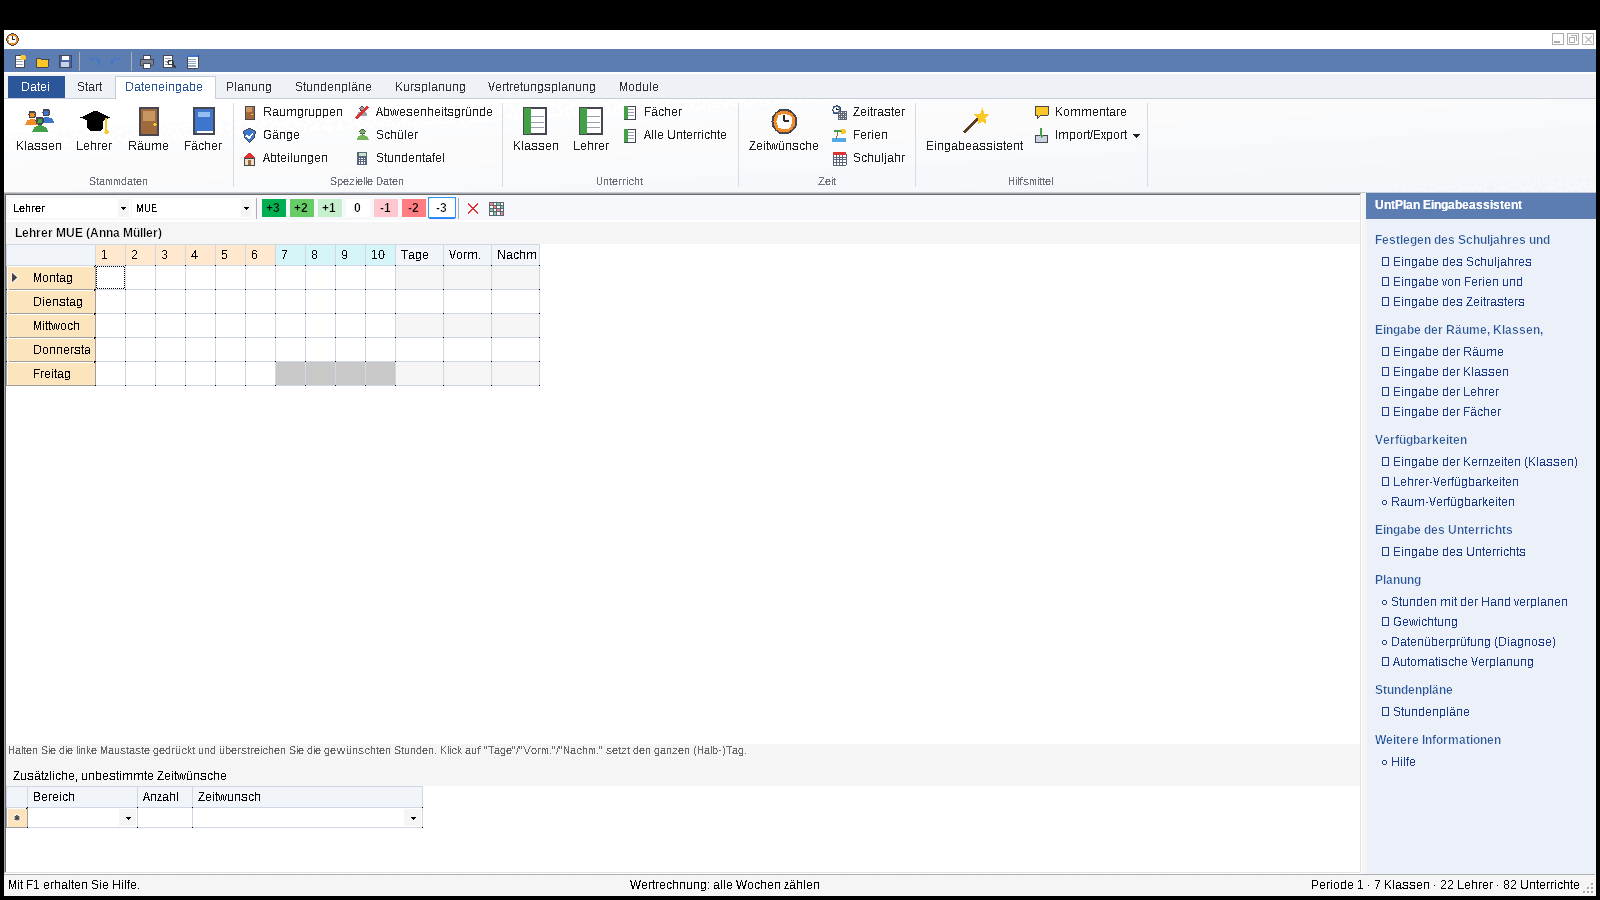
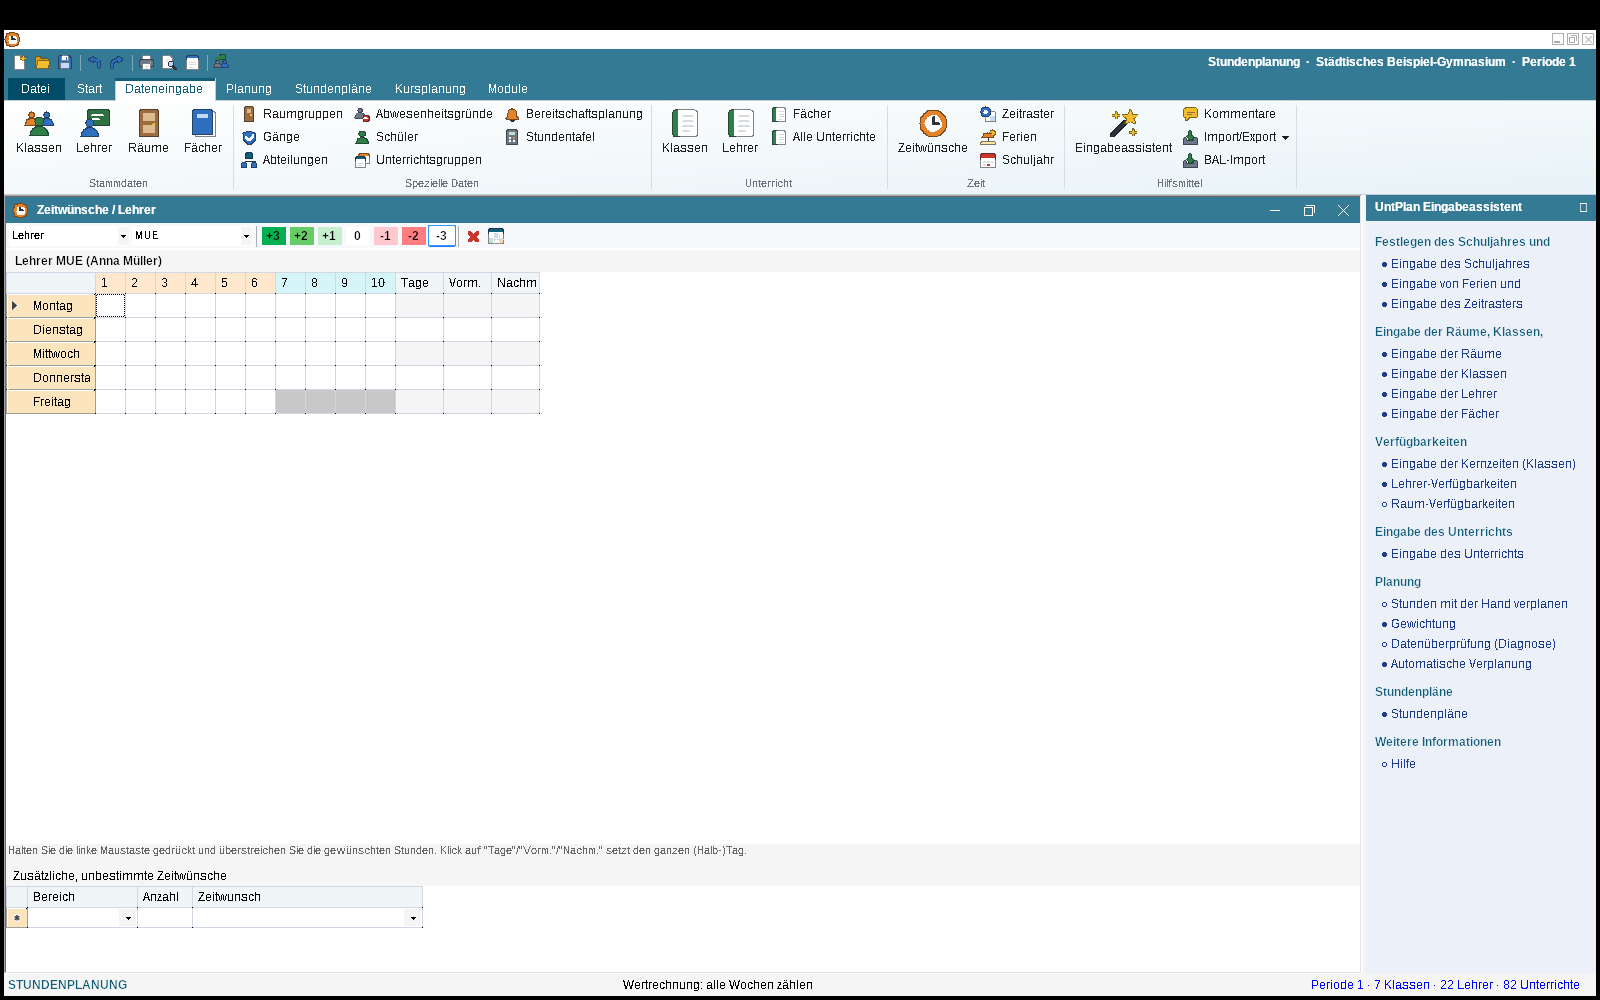
Handbuch aktualisiert, Selbsttest erweitert, Pausenaufsichten-Startansicht korrigiert
- Handbuch: Modi und Auswahl-Synchronisation, Direkteingabe, Pausenaufsichten,
  Perioden, Bereitschaftsplanung, Unterrichtsgruppen, BAL, UntPlanWeb,
  Tabellenformate und Druckformular
- Periodendialog: Option Unterrichtsänderungen in Folgeperioden übernehmen
- Pausenaufsichten zeigen beim Öffnen die Gänge (nicht die Lehrer)
- Selbsttest öffnet auch Veranstaltungen, Klausuren, Optimierung,
  Bereitschaftsplanung und Unterrichtsgruppen
- Neue Bildschirmfotos

Claude-Session: https://claude.ai/code/session_012HgAxausSt2NjCdAsUfGL8

diff --git a/src/UntPlan.App/HauptFenster.SelbstTest.cs b/src/UntPlan.App/HauptFenster.SelbstTest.cs
@@ -89,6 +89,8 @@ public sealed partial class HauptFenster
         Schritt("19b_Pausenaufsichten", () => Max(FensterOeffnen("pause")!), -1);
         Schritt("19c_Statistik", () => Max(FensterOeffnen("stat")!), -1);
         Schritt("19d_Kalender_Bereitschaften", () => { FensterOeffnen("kal"); FensterOeffnen("bereit"); FensterOeffnen("vorm"); LayoutMdi(MdiLayout.TileVertical); }, -1);
+        Schritt("19d1_Veranstaltungen", () => Max(FensterOeffnen("veranst")!), -1);
+        Schritt("19d2_Klausuren", () => Max(FensterOeffnen("klaus")!), -1);
         Schritt("19e_Standardanordnung", VertretungsStandardFenster, -1);
         Schritt("19f_Stundenplanmodus", VertretungsmodusUmschalten, -1, false);
         Schritt("20_Wertrechnung", () => Max(Oeffnen<WertrechnungFenster>("wert", () => new WertrechnungFenster(0))), 6);
@@ -97,6 +99,9 @@ public sealed partial class HauptFenster
         Schritt("23_Kursplanung", () => Max(Oeffnen<KursplanungFenster>("kurs", () => new KursplanungFenster())), 4);
         Schritt("24_Hilfe", () => HilfeFenster.Zeigen("Vertretungsplanung"), 0);
         Schritt("25_Perioden", () => new PeriodenDialog().Show(this), 2);
+        Schritt("25a_Optimierung", () => new OptimierungDialog().Show(this), 2);
+        Schritt("25b_Bereitschaftsplanung", () => Max(FensterOeffnen("bereitplan")!), 2);
+        Schritt("25c_Unterrichtsgruppen", () => Max(FensterOeffnen("ugruppen")!), 2);
         Schritt("26_Kommentare", () => Max(new KommentarUebersicht()).Show(), 1);
         Schritt("27_Monitor", () =>
         {

diff --git a/src/UntPlan.App/Fenster/VertretungsAusgabeFenster.cs b/src/UntPlan.App/Fenster/VertretungsAusgabeFenster.cs
@@ -21,6 +21,8 @@ public sealed class PausenaufsichtFenster : MdiFenster, IDruckbar
     private readonly DataGridView _g = new() { Dock = DockStyle.Fill };
     private readonly DataGridView _lehrer = new() { Dock = DockStyle.Fill };
     private bool _laedt;
+    // eigene Merkvariable: TabControl.SelectedIndex liefert vor dem Erzeugen des Handles -1
+    private bool _gangSicht = true;
 
     public PausenaufsichtFenster()
     {
@@ -31,7 +33,13 @@ public sealed class PausenaufsichtFenster : MdiFenster, IDruckbar
         Positionieren();
         _tabs.TabPages.Add("Gang");
         _tabs.TabPages.Add("Lehrer");
-        _tabs.SelectedIndexChanged += (_, _) => { ElementeFuellen(); Neuaufbau(); };
+        _tabs.SelectedIndexChanged += (_, _) =>
+        {
+            if (_tabs.SelectedIndex < 0 || (_tabs.SelectedIndex == 0) == _gangSicht) return;
+            _gangSicht = _tabs.SelectedIndex == 0;
+            ElementeFuellen();
+            Neuaufbau();
+        };
         var ts = Werkzeugleiste();
         ts.Items.Add(_element);
         _element.SelectedIndexChanged += (_, _) => { if (!_laedt) Neuaufbau(); };
@@ -84,7 +92,7 @@ public sealed class PausenaufsichtFenster : MdiFenster, IDruckbar
         public override string ToString() => Text;
     }
 
-    private bool GangSicht => _tabs.SelectedIndex == 0;
+    private bool GangSicht => _gangSicht;
     private int? ElementId => (_element.SelectedItem as Eintrag)?.Id;
     private List<Pause> Pausen => Pausenaufsichten.AufsichtsPausen(D).ToList();
 

diff --git a/src/UntPlan.App/Dialoge/SchuldatenDialoge.cs b/src/UntPlan.App/Dialoge/SchuldatenDialoge.cs
@@ -311,6 +311,9 @@ public sealed class PeriodenDialog : Dialog
         var druck = new Button { Text = "Druck", Left = 230, Top = 18, Width = 82, Height = 25 };
         var aktiv = new Button { Text = "Als aktive Periode", Left = 320, Top = 18, Width = 130, Height = 25 };
         Controls.AddRange(new Control[] { druck, aktiv, _fixiert });
+        var folge = new CheckBox { Text = "Unterrichtsänderungen in Folgeperioden übernehmen", Left = 320, Top = 60, AutoSize = true, Checked = D.Einstellungen.UnterrichtInFolgeperioden };
+        folge.CheckedChanged += (_, _) => AppZustand.Doc.Aendern("Unterricht in Folgeperioden", AenderungsArt.Alles, d => d.Einstellungen.UnterrichtInFolgeperioden = folge.Checked);
+        Controls.Add(folge);
         Controls.Add(new Label { Text = "Langname", Left = 214, Top = 99, AutoSize = true });
         _lang.SetBounds(12, 96, 196, 23);
         Controls.Add(_lang);

diff --git a/src/UntPlan.App/HauptFenster.Modus.cs b/src/UntPlan.App/HauptFenster.Modus.cs
@@ -69,7 +69,7 @@ public sealed partial class HauptFenster
 
         g = Gruppe(vp, "Planung");
         g.Eintraege.Add(E("Planungs-dialog", "stundenplan", PlanungsdialogOeffnen, true, hinweis: "Klassen- und Lehrerplan tagesaktuell nebeneinander (Drag & Drop: Verlegen, Tauschen)"));
-        g.Eintraege.Add(E("Vormer-kungen", "vormerkung", () => VertretungsFensterOeffnen("vorm"), true));
+        g.Eintraege.Add(E("Vormerkungen", "vormerkung", () => VertretungsFensterOeffnen("vorm"), true));
         g.Eintraege.Add(E("Pausen-aufsichten", "pausenaufsicht", () => VertretungsFensterOeffnen("pause"), true));
 
         g = Gruppe(vp, "Stundenpläne");

diff --git a/docs/HANDBUCH.md b/docs/HANDBUCH.md
@@ -19,6 +19,7 @@ In der Anwendung erreichen Sie die passende Hilfeseite jederzeit mit **F1**.
 10. [Import, Export und WebPortal](#10-import-export-und-webportal)
 11. [Tastenkürzel](#11-tastenkürzel)
 12. [MultiUser](#12-multiuser)
+13. [Bedienung: Tabellen, Suche, Formate](#13-bedienung-tabellen-suche-formate)
 
 ---
 
@@ -43,6 +44,21 @@ In der Anwendung erreichen Sie die passende Hilfeseite jederzeit mit **F1**.
 
 Eine Schuldatei (`*.up`) enthält alle Daten eines Schuljahres. Beim Speichern legt UntPlan automatisch eine Sicherung `*.bak` an.
 Jede Änderung lässt sich mit **Strg+Z** rückgängig machen (50 Schritte).
+
+### Stundenplanung und Vertretungsplanung
+
+UntPlan arbeitet in zwei Modi, die Sie unten im Menüband (*Modus*) oder mit **Strg+M** umschalten:
+
+| Modus | Farbe | Inhalt |
+|---|---|---|
+| Stundenplanung | blau | Stammdaten, Unterricht, Planung, Optimierung, Module |
+| Vertretungsplanung | grün | Kalender, Absenzen, Vertretungen, Vorschlag, Veranstaltungen, Klausuren, Pausenaufsichten, Statistik |
+
+Jeder Modus merkt sich seine eigene Fensteranordnung. Titelleisten, Menüband und Fenster nehmen die Farbe des Modus an.
+Unter Windows 11 gilt das auch für die Titelleiste des Hauptfensters.
+
+**Auswahl wirkt auf alle Fenster:** Wählen Sie eine Vertretung, eine Stunde im Unterrichtsfenster oder eine Abwesenheit, zeigen alle geöffneten Stundenpläne mit eingeschalteter Synchronisation den zugehörigen Lehrer-, Klassen- bzw. Raumplan.
+Die betroffene Stunde ist gestrichelt markiert.
 
 ---
 
@@ -276,7 +292,10 @@ In der **Übersicht** (Raumplan quer) verlegen Sie Räume per Drag & Drop.
 *Vertretungsplanung → Abwesenheiten*: Geben Sie Lehrer-, Klassen- und Raumabwesenheiten mit Datum, Stunde von/bis, Grund und Text ein.
 
 - **Klassenabwesenheit:** Begleitlehrer gelten ebenfalls als abwesend. Der Unterricht der Klasse wird zur **Freisetzung**; die freigesetzten Lehrer stehen für Vertretungen zur Verfügung (Minusstunden).
-- Mit dem Speichern erzeugt UntPlan sofort die **offenen Vertretungen** (rot `???`).
+- Mit dem Speichern erzeugt UntPlan sofort die **offenen Vertretungen** (rot `???`, nicht fett).
+- **Direkteingabe:** Am Ende der Liste steht immer eine leere Zeile *neu*. Tippen Sie dort Lehrer, Datum und Stunden ein, ohne einen Dialog zu öffnen. Das gilt ebenso für **Veranstaltungen**, **Klausuren** und **Tagestexte**.
+- **Hinweis bei geplanten Vertretern:** Wird ein Lehrer abwesend, der bereits als Vertreter eingeteilt ist, meldet UntPlan die betroffenen Vertretungen. Diese werden wieder offen.
+- Mit **Teilen**, **Kopieren** und **Zusammenfassen** bearbeiten Sie mehrere Abwesenheiten auf einmal.
 
 ### Vertretungsfenster
 
@@ -296,6 +315,13 @@ Arbeitsablauf:
 4. **Automatische Vertretung des Tages** plant alle offenen Vertretungen nach dem Vorschlag.
 
 Die Spalten **Vertreter**, **Fach**, **Raum** und **Text** können Sie direkt überschreiben.
+In der Auswahlliste *Vertreter* sind belegte Lehrer rot und Lehrer mit Bereitschaft grün; Sie können in der Liste suchen, indem Sie tippen.
+
+- **Zusammenhängende Stunden** (Doppel- und Blockstunden) erscheinen im Tagesplan als ein Block.
+- **Drag & Drop im Tagesplan:** Beim Ziehen fragt UntPlan, ob nur die Stunde oder der ganze Block verlegt werden soll und wie mit Kollisionen umzugehen ist (Tauschen, Verdrängen, Kollision zulassen).
+- **Ansichten:** Klasse, Lehrer, Druck und Pausenaufsichten.
+- **Filter:** *Offene Vertretungen*, *Kollisionen*.
+- **Tasten:** `+` setzt *Vertretung ohne Lehrkraft*, `-` setzt *Entfall*.
 
 - **Bereitschaft:** Lehrer mit Bereitschaftsstunde stehen grün ganz oben; ihre Vertretung ist keine Mehrarbeit.
 - **statt-Vertretung:** Ein freigesetzter Lehrer vertritt.
@@ -307,13 +333,39 @@ Die Spalten **Vertreter**, **Fach**, **Raum** und **Text** können Sie direkt ü
 
 ![Pausenaufsichten](bilder/18_Pausenaufsichten.png)
 
-Zeilen = Aufsichtsbereich (Gang) × Aufsichtspause, Spalten = Tage. Geben Sie Lehrer-Kürzel ein oder lassen Sie **Pausenaufsichten optimieren** die Einteilung vornehmen. Berücksichtigt werden:
+Das Fenster hat die Karteikarten **Gang** und **Lehrer**:
 
-- Anwesenheit des Lehrers vor oder nach der Pause.
-- Zeitwünsche.
-- Minimal- und Maximalwerte der Lehrer.
+- **Gang:** Wählen Sie oben den Aufsichtsbereich. Die Matrix zeigt Tage × Aufsichtspausen. Der Spaltenkopf nennt die Pause mit Ende und Beginn der angrenzenden Stunden.
+- **Lehrer:** zeigt die Aufsichten des gewählten Lehrers; grün = anwesend, rot = eigentlich nicht verfügbar.
+- Neben der Auswahl stehen die Minuten des Elements und wie viele davon noch offen sind.
 
-Farben: rot = Bedarf nicht gedeckt, violett = Lehrer eigentlich nicht verfügbar.
+**Zellen der Matrix:**
+
+| Anzeige | Bedeutung |
+|---|---|
+| Kürzel | eingeteilter Lehrer |
+| `???` | Aufsicht nötig, noch niemand eingeteilt |
+| grau | keine Aufsicht |
+| rot | Einteilung verletzt eine Vorgabe |
+
+Sie können ein Lehrer-Kürzel direkt in die Zelle tippen.
+
+**Werkzeugleiste:**
+
+- **Lehrervorschlag:** listet alle Lehrer mit Bewertung (Anwesenheit vor bzw. nach der Pause, Zeitwünsche, Minimal- und Maximalwerte). Ein Doppelklick trägt den Lehrer ein.
+- **Aufsicht löschen** und **Aufsicht (???) / Keine Aufsicht** bearbeiten die markierte Zelle.
+- **Aufsicht teilen** bzw. **Teilung entfernen:** teilt eine Pause auf bis zu neun Lehrer auf, z. B. für die erste und zweite Hälfte.
+- **Optimierung** verteilt die offenen Aufsichten automatisch. Die **Gewichtung** legt fest, wie stark jedes Kriterium zählt und wie viele Aufsichten ein Lehrer höchstens pro Tag hat.
+
+Rechts steht die Übersicht aller Lehrer mit Soll, Ist, Anzahl und Pausenaufsicht-Vertretungen. Ein Doppelklick öffnet die Lehreransicht.
+
+### Kalender, Veranstaltungen, Klausuren, Bereitschaften
+
+- **Kalender:** Wochenübersicht mit der Anzahl der Abwesenheiten und Vertretungen je Tag. Auf der zweiten Karteikarte bearbeiten Sie die Tagestexte direkt.
+- **Veranstaltungen** (Exkursionen, Konferenzen, Projekttage) und **Klausuren** werden in der Liste direkt eingetragen. Beteiligte Klassen, Lehrer und Räume gelten in diesem Zeitraum als abwesend bzw. belegt.
+- **Sondereinsätze:** Raster mit Klassen und Lehrern, dazu eine Schaltfläche für eine Klassenkonferenz.
+- **Bereitschaften:** zeigt, wer am gewählten Tag in welcher Stunde Bereitschaft hat und ob diese schon für eine Vertretung verbraucht ist.
+- **Vormerkungen:** Ziehen Sie eine Vormerkung in den Tagesplan, um sie zu verplanen.
 
 ### Statistik und NRW-Mehrarbeit
 
@@ -322,6 +374,13 @@ Farben: rot = Bedarf nicht gedeckt, violett = Lehrer eigentlich nicht verfügbar
 Je Lehrer zeigt die Statistik Vertretungen, Betreuungen, Sondereinsätze, Pausenaufsichten, Mehrarbeit, Entfälle, Freisetzungen, Saldo und **vergütungsfähige Mehrarbeit nach NRW-Regel**:
 Werden in einem Kalendermonat mehr als 3 Stunden Mehrarbeit geleistet (Grenze einstellbar, Minderstunden werden verrechnet), sind alle Stunden vergütungsfähig.
 Die Liste lässt sich drucken oder als CSV exportieren.
+
+Weitere Berichte:
+
+- Abrechnung und Einzelnachweis je Lehrer.
+- Mehrarbeit NRW und Monatsabrechnung, mit Unterschriftszeile.
+- Entfalltage.
+- Übersicht und Wochenwerte.
 
 ### Vertretungsplan ausgeben
 
@@ -356,7 +415,33 @@ Die Liste lässt sich drucken oder als CSV exportieren.
 
 ### Perioden
 
-Verschiedene Stundenpläne für Abschnitte des Schuljahres, z. B. ab dem 2. Halbjahr. Neue Perioden kopieren den Plan der aktuellen Periode.
+![Perioden](bilder/25_Perioden.png)
+
+Perioden sind verschiedene Stundenpläne für Abschnitte des Schuljahres, z. B. ab dem 2. Halbjahr oder für eine Projektwoche. Sie verwalten sie unter *Planung → Perioden*.
+
+- **Neue Periode:** wird als Tochter der markierten (Mutter-)Periode angelegt. Sie übernimmt deren Unterricht, Stundenplan und Pausenaufsichten.
+  - Beginn und Ende müssen im Schuljahr und innerhalb der Mutterperiode liegen.
+  - Ohne Endedatum gilt die Periode bis zum Beginn der nächsten Periode derselben Ebene.
+- **Gültigkeit:** An jedem Tag gilt die innerste Periode. Die Spalte *Schultage* zeigt, an wie vielen Unterrichtstagen sie tatsächlich gilt.
+- **Fixieren:** Eine fixierte Periode lässt sich nicht ändern oder löschen. Weitergegebene Änderungen erreichen sie ebenfalls nicht.
+- **Änderungen weitergeben** (Kontrollkästchen *Unterrichtsänderungen in Folgeperioden übernehmen* im Periodendialog): Unterrichtsänderungen werden in die Tochterperioden übernommen, sofern der Unterricht dort noch unverändert ist. Bewusst abweichender Unterricht bleibt erhalten.
+- **Löschen:** Stammdaten werden aus allen Perioden entfernt. Tochterperioden einer gelöschten Periode hängen danach an deren Mutter.
+- **Vertretungsplanung:** Mit dem Datum wechselt automatisch die gültige Periode. Die Statuszeile zeigt sie an; ein Klick darauf wählt eine andere Periode.
+
+### Bereitschaftsplanung
+
+![Bereitschaftsplanung](bilder/25b_Bereitschaftsplanung.png)
+
+*Dateneingabe → Bereitschaftsplanung* zeigt Tage × Stunden mit Bedarf, Anzahl eingeteilter Lehrer und deren Kürzeln.
+
+- **Bedarf einer Stunde:** links wählen. **Bedarf für alle Vormittagsstunden setzen** füllt die übliche Grundversorgung auf einmal.
+- **Lehrervorschlag:** listet freie Lehrer mit Punkten, Bereitschaften pro Woche, freien Stunden und Lage (Hohlstunde, Tagesrand). Ein Doppelklick teilt den Lehrer ein.
+- **Fehlende Bereitschaften automatisch besetzen** verteilt den offenen Bedarf gleichmäßig. Dabei werden Zeitwünsche und die Wertrechnung beachtet.
+
+### Unterrichtsgruppen (A/B-Wochen)
+
+*Dateneingabe → Unterrichtsgruppen* legt Gruppen wie *A-Woche*, *B-Woche* oder *1. Halbjahr* mit Kalenderwochen bzw. Zeitraum fest.
+Weisen Sie im Unterrichtsfenster einem Unterricht oder einer Unterrichtszeile eine Gruppe zu. Dann gelten zwei Stunden zur gleichen Zeit nur als Kollision, wenn sich ihre Wochen überschneiden. Raumbelegung und Wertrechnung rechnen anteilig.
 
 ### Abteilungsplanung
 
@@ -372,6 +457,15 @@ Exportieren Sie eine Abteilungsdatei, planen Sie die Abteilung getrennt und füh
 | Umstieg aus anderen Programmen | GPU-Dateien (GPU001–GPU006) |
 | Export | GPU, HTML-Stundenpläne, Info-Stundenplan, Vertretungsplan, iCal, CSV |
 
+**BAL-Import:** *Dateneingabe → BAL-Import* (oder *Import/Export*) übernimmt einen Stundenplan aus einer WILLI2-BAL-Datei. Wahlweise werden Zeitraster, Stammdaten, Zeitwünsche, Unterricht, Stundenplan und Pausenaufsichten übernommen. Fehlende Elemente werden angelegt.
+
+**UntPlanWeb** (Menü *Datei → UntPlanWeb*): Hier bereiten Sie die Veröffentlichung für das Online-Portal UntPlanWeb vor.
+
+- **Übertragen** sendet Stundenpläne, Vertretungen, Tagestexte und Ferien als Paket an den Server. Personenbezogene Felder lassen sich in den Datenschutzoptionen ausblenden.
+- **Rückmeldungen** holt Krankmeldungen und Hinweise aus dem Portal ab.
+- **Paket als Datei exportieren** erzeugt das Paket offline als JSON-Datei.
+- Schema und Schnittstelle stehen in [UNTPLANWEB.md](UNTPLANWEB.md).
+
 **WebPortal** (*Module → Web-Portal*): Tragen Sie Adresse, Schul-ID und API-Schlüssel ein. **Synchronisieren** lädt Stundenplan, Vertretungen, Tagestexte und Ferien hoch und übernimmt Krankmeldungen aus dem Portal als Abwesenheiten.
 Die Schnittstelle ist in [SYNC_API.md](SYNC_API.md) beschrieben.
 
@@ -385,6 +479,10 @@ Die Schnittstelle ist in [SYNC_API.md](SYNC_API.md) beschrieben.
 | Strg+N / Strg+O / Strg+S | Neu / Öffnen / Speichern |
 | Strg+Z / Strg+Y | Rückgängig / Wiederholen |
 | Strg+P | Drucken |
+| Strg+M | Stundenplanung ↔ Vertretungsplanung |
+| Strg+T | Vertretungen |
+| Strg+G | Vertretungsvorschlag |
+| + / - (Vertretungsfenster) | Vertretung ohne Lehrkraft / Entfall |
 | Entf | Element löschen bzw. Stunde entplanen |
 | F | markierte Stunde fixieren / Fixierung lösen |
 | Doppelklick auf Kurzname | Umbenennen |
@@ -438,3 +536,25 @@ Die Benutzerverwaltung (Recht „Benutzerverwaltung") hat drei Karteikarten:
 ### Angemeldete Benutzer und Nachrichten
 
 **Angemeldete Benutzer** zeigt alle Sitzungen mit Rechner, Version, Anmeldezeit, letzter Aktivität und aktueller Tätigkeit (aktives Fenster). Sie können eine **Nachricht an alle** oder an einen Benutzer senden; sie erscheint beim Empfänger innerhalb von 10 Sekunden. Administratoren können Benutzer **abmelden**.
+
+---
+
+## 13. Bedienung: Tabellen, Suche, Formate
+
+- **Ein Klick genügt:** Ein Klick in ein änderbares Tabellenfeld startet die Bearbeitung.
+- **Suche in Auswahllisten:** In allen Auswahllisten (Lehrer, Klassen, Räume, Fächer, Ansichten usw.) können Sie tippen. Die Liste springt auf den ersten passenden Eintrag; dabei wird auch innerhalb der Namen gesucht. Enter oder Verlassen des Feldes übernimmt den Eintrag.
+- **Eigene Tabellenformate:** Ein Rechtsklick auf einen Spaltenkopf öffnet das Formatmenü.
+  - Spalten ein- und ausblenden.
+  - Spalten mit der Maus verschieben und in der Breite ändern.
+  - Die aktuelle Anordnung unter einem Namen speichern.
+  - Zwischen eigenen Formaten und dem Standardformat wechseln.
+  - Ein Format löschen.
+
+  Das zuletzt gewählte Format gilt beim nächsten Öffnen wieder.
+- **Druckformat-Editor:** Vor der Seitenansicht einer Liste öffnet sich das *Druckformular*. Dort legen Sie fest:
+  - Überschrift, Fußzeile und Summenzeile.
+  - Schriftgröße und Hoch- oder Querformat.
+  - Gitterlinien und Zebrastreifen.
+  - Welche Spalten mit welcher Breite gedruckt werden.
+
+  Jede Liste merkt sich ihr eigenes Drucklayout.
